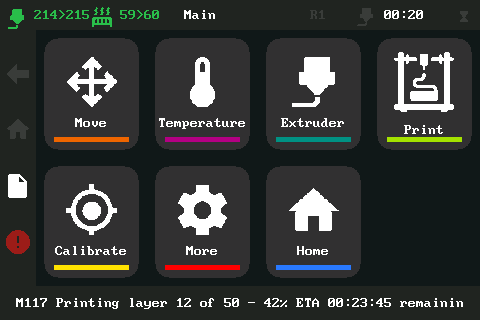
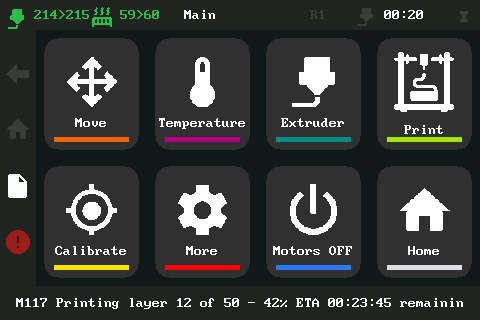
gui: Motors OFF moves to the main menu, between More and Home
The main grid is full again (no empty slot) and the More page drops the
duplicate. M84 keeps its guard: blocked while a print is active.

Changed region(s): [[0.7812, 0.5, 1.0, 0.875], [0.5938, 0.5625, 0.7188, 0.75], [0.5625, 0.75, 0.75, 0.8125]]

diff --git a/mcu/st7796.py b/mcu/st7796.py
@@ -57,8 +57,8 @@ GUI_SCREENS = {
         ("Print", "print", ('scr', 'print')),
         ("Calibrate", "probe", ('scr', 'calibrate')),
         ("More", "settings", ('scr', 'more')),
+        ("Motors OFF", "power", 'M84'),
         ("Home", "home", 'G28'),
-        None,
     ],
     # Tuning menus that used to live in main / Extrude / More.
     'calibrate': [
@@ -130,7 +130,6 @@ GUI_SCREENS = {
         ("Filam", "extrude", ('fsens',)),
         ("Network", "network", ('scr', 'network')),
         ("Beep", "alert", ('beep',)),
-        ("Motors OFF", "power", 'M84'),
     ],
 }
 
